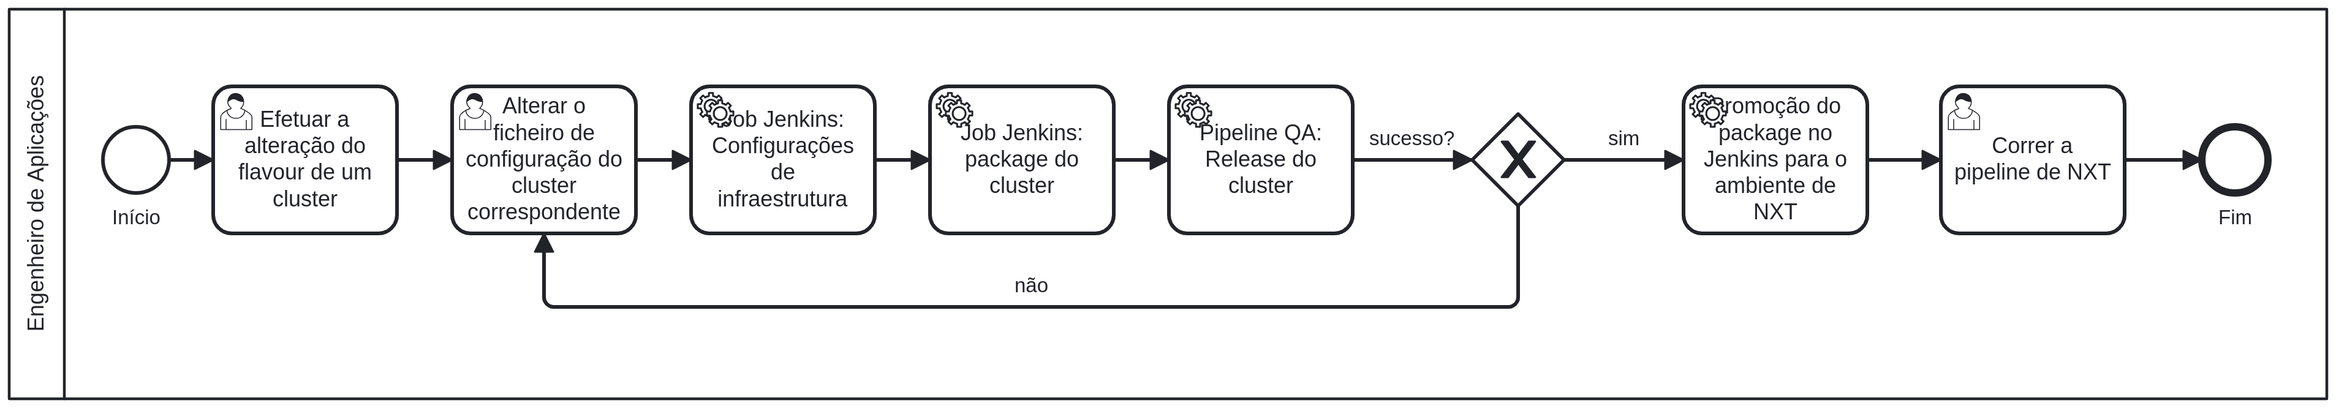
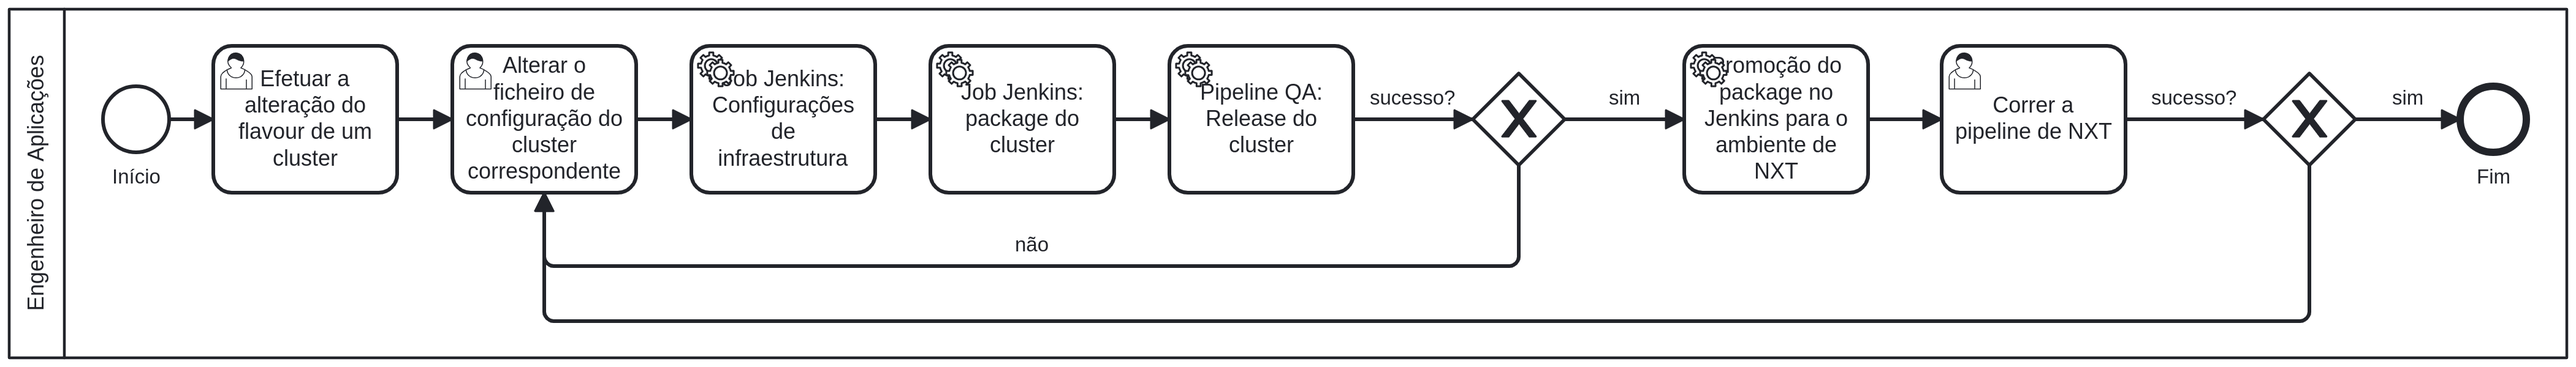
updated

diff --git a/chapters/content/4-Implementacao.tex b/chapters/content/4-Implementacao.tex
@@ -44,15 +44,15 @@ neste repositório é automaticamente despoletado um Job Jenkins que trata da cr
 da nova versão e executa a \textit{pipeline} correspondente no ambiente de \ac{QA}.
 
 Todo este processo é automatizado e, por isso, é necessário compreender quais são os mecanismos
-existentes de forma a trabalhar de forma eficiente com os mesmos. 
+existentes de forma a trabalhar de forma eficiente com os mesmos. A Figura \ref{scaledown-nxt} 
+ilustra o processo de \textit{scaledown} de um \textit{cluster} no ambiente de NXT e qual o 
+procedimento adicional em caso de necessidade de reversão da operação.
 
 \begin{figure}[H]
   \centerline{\includegraphics[scale=0.12]{media/content/impl/scaledown_nxt.png}}
   \caption{Processo de \textit{scaledown} de um \textit{cluster} no ambiente de NXT}
   \label{scaledown-nxt}
 \end{figure}
-
-\todo[inline]{Incluir BPMNs dos processos de pipelines para alterações de flavours + rollback}
 
 \todo[inline]{Incluir BPMNs do processo de criação de novos clusters (simplificado}
 
